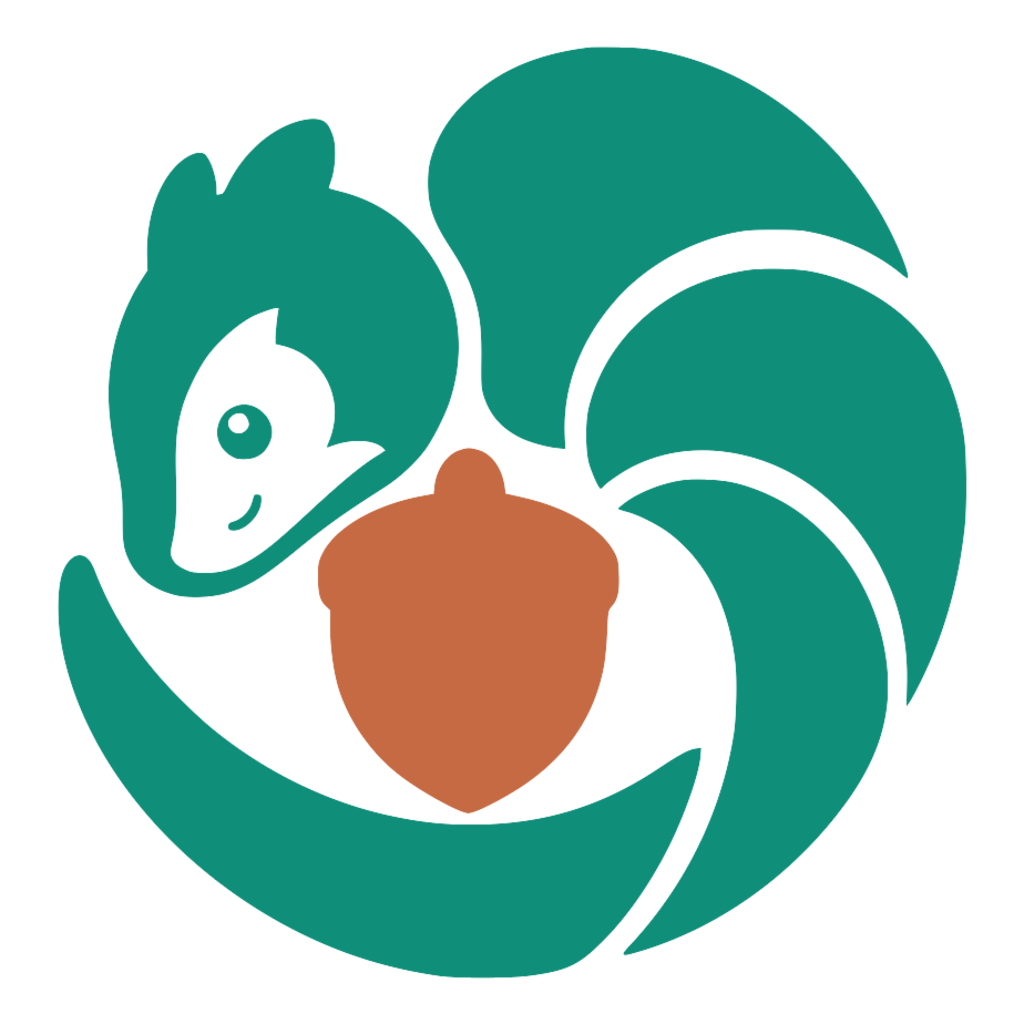
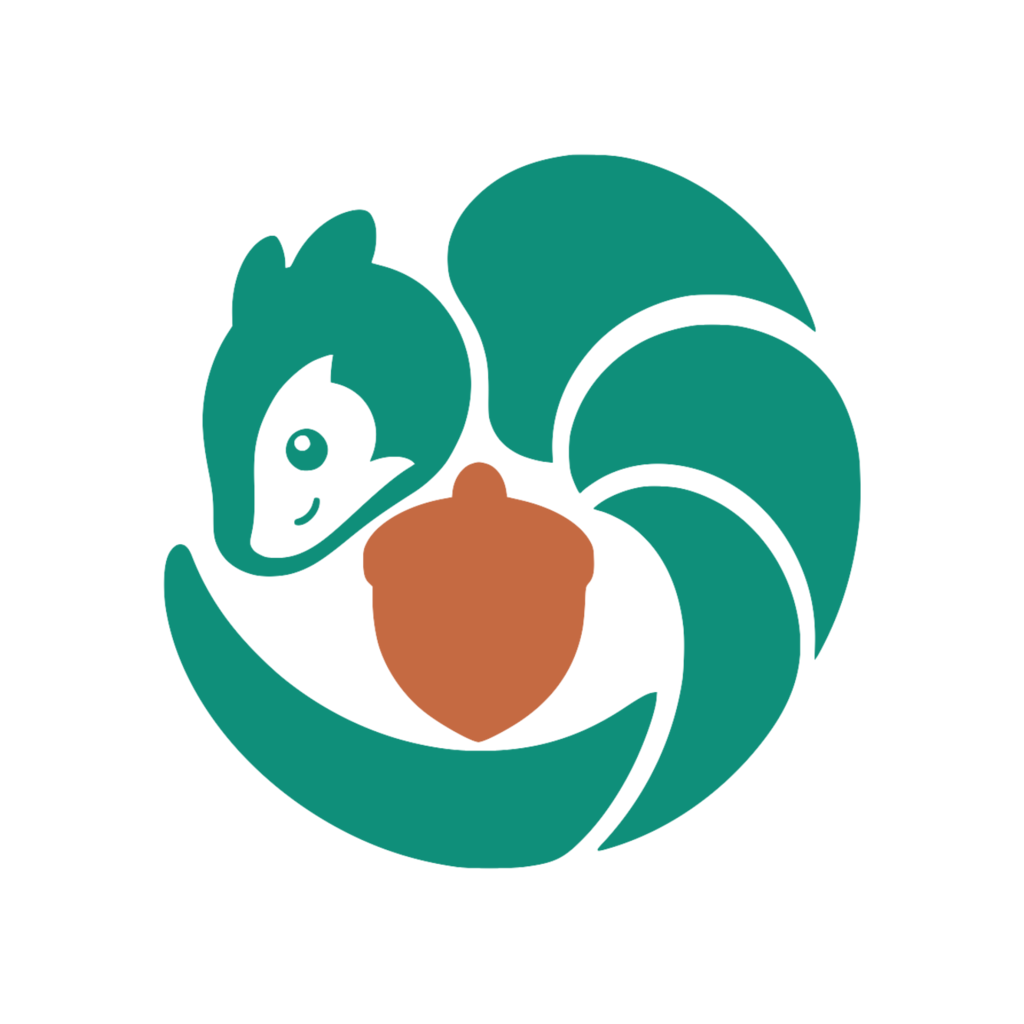
fix(mobile): Android 键盘遮挡修复 + 应用/通知图标优化 (v0.7.9)
- 键盘: 移除三个带输入 sheet(别名与分组/管理分组/设备策略)的
  androidKeyboardInputMode=adjustResize,回落 gorhom 默认 adjustPan,修复
  Android edge-to-edge 下底部输入被软键盘遮挡(iOS 不受影响,gorhom 已是最新无法靠升级修)
- 应用图标: adaptive-icon 前景 logo 缩到 70%,纠正铺满导致的 launcher 显大
- 通知图标: 新增 with-android-notification-icon plugin 注入单色橡子状态栏小图标
  + 展开通知彩色 logo 大图标(circularLargeIcon),修复此前回退到彩色 launcher
  图标被系统渲染成深色块

diff --git a/mobile/plugins/with-android-notification-icon.js b/mobile/plugins/with-android-notification-icon.js
@@ -1,0 +1,40 @@
+const { withDangerousMod } = require("@expo/config-plugins");
+const fs = require("node:fs");
+const path = require("node:path");
+
+// notify-kit(notifee)的通知小图标 = Android 状态栏 24dp 单色剪影。系统只用 alpha
+// 通道渲染(纯白+透明),彩色 launcher 图标当小图标会被渲染成深色块。资源名
+// ic_notification 对应代码里 notifee `android.smallIcon` 的引用。
+//
+// android/ 是 gitignore 的 prebuild 产物(CI 每次 expo prebuild 重生成),故这里用
+// config plugin 在 prebuild 时把 assets/android-notification-icon/drawable-*/
+// ic_notification.png 复制进各 density 的 res/drawable-*,而不是手改原生目录。
+const DENSITIES = ["mdpi", "hdpi", "xhdpi", "xxhdpi", "xxxhdpi"];
+const ICON = "ic_notification.png";
+
+const withAndroidNotificationIcon = (config) =>
+	withDangerousMod(config, [
+		"android",
+		(config) => {
+			const { projectRoot, platformProjectRoot } = config.modRequest;
+			const srcRoot = path.join(
+				projectRoot,
+				"assets/android-notification-icon",
+			);
+			const resRoot = path.join(platformProjectRoot, "app/src/main/res");
+			for (const density of DENSITIES) {
+				const src = path.join(srcRoot, `drawable-${density}`, ICON);
+				if (!fs.existsSync(src)) {
+					throw new Error(
+						`[with-android-notification-icon] 缺少资源: ${src}`,
+					);
+				}
+				const dstDir = path.join(resRoot, `drawable-${density}`);
+				fs.mkdirSync(dstDir, { recursive: true });
+				fs.copyFileSync(src, path.join(dstDir, ICON));
+			}
+			return config;
+		},
+	]);
+
+module.exports = withAndroidNotificationIcon;

diff --git a/mobile/src/components/ui/app-bottom-sheet.tsx b/mobile/src/components/ui/app-bottom-sheet.tsx
@@ -49,7 +49,18 @@ interface AppBottomSheetProps {
   /** 内容容器 testID(迁移时保留原 sheet 的 testID,如 device-policy-sheet)。 */
   contentTestID?: string;
   footerComponent?: React.FC<BottomSheetFooterProps>;
-  /** 带输入框的 sheet 传键盘行为;默认不设(短内容无需)。 */
+  /**
+   * 带输入框的 sheet 传键盘行为;默认不设(短内容无需)。
+   * `keyboardBehavior="interactive"` + `keyboardBlurBehavior="restore"` 是带底部输入
+   * sheet 的推荐基线。
+   *
+   * ⚠️ `androidKeyboardInputMode` 勿设 `"adjustResize"`。gorhom 在
+   * `android + adjustResize + interactive` 下会把键盘容器高度强制归零并直接 return
+   * (BottomSheet.tsx),把 sheet 上移完全交给系统 window resize;而本 App 是
+   * Expo(SDK 56)edge-to-edge,`adjustResize` 只把键盘作为 inset、不会 resize sheet 容器,
+   * 于是 sheet 纹丝不动、底部输入被键盘盖住。留空即用 gorhom 默认 `adjustPan`,
+   * 走库内主动上移逻辑,edge-to-edge 下才正确避让。
+   */
   keyboardBehavior?: BottomSheetModalProps["keyboardBehavior"];
   keyboardBlurBehavior?: BottomSheetModalProps["keyboardBlurBehavior"];
   androidKeyboardInputMode?: BottomSheetModalProps["android_keyboardInputMode"];

diff --git a/mobile/src/core/notifier.ts b/mobile/src/core/notifier.ts
@@ -82,6 +82,12 @@ async function notifyTransferOffer(
     data: { kind: "transfer-offer", sessionId },
     android: {
       channelId: ALERT_CHANNEL_ID,
+      // 状态栏单色小图标(见 foreground-service.ts 说明);color 染品牌绿。
+      smallIcon: "ic_notification",
+      color: "#0F8F7A",
+      // 展开通知右侧的彩色品牌 logo(圆形裁切)。
+      largeIcon: require("../../assets/images/icon.png"),
+      circularLargeIcon: true,
       pressAction: { id: "default" },
     },
   });
@@ -108,6 +114,12 @@ async function notifyPairingRequest(
     data: { kind: "pairing-request", pendingId: pendingId.toString(), peerId },
     android: {
       channelId: ALERT_CHANNEL_ID,
+      // 状态栏单色小图标(见 foreground-service.ts 说明);color 染品牌绿。
+      smallIcon: "ic_notification",
+      color: "#0F8F7A",
+      // 展开通知右侧的彩色品牌 logo(圆形裁切)。
+      largeIcon: require("../../assets/images/icon.png"),
+      circularLargeIcon: true,
       pressAction: { id: "default" },
     },
   });

diff --git a/mobile/src/core/foreground-service.ts b/mobile/src/core/foreground-service.ts
@@ -35,6 +35,14 @@ const FGS_TYPE =
 /** idle 保活与传输进度两条通知共享的 Android 前台服务字段。 */
 const FGS_ANDROID_BASE = {
   channelId: KEEPALIVE_CHANNEL_ID,
+  // 状态栏单色小图标(白色橡子剪影,由 with-android-notification-icon plugin 注入
+  // res/drawable-*/ic_notification.png)。不设则 notify-kit 回退到彩色 launcher 图标
+  // → 被系统渲染成深色块。color 给图标染品牌绿。
+  smallIcon: "ic_notification",
+  color: "#0F8F7A",
+  // 展开通知右侧的大图标 = 彩色品牌 logo(圆形裁切,与 launcher 图标一致)。
+  largeIcon: require("../../assets/images/icon.png"),
+  circularLargeIcon: true,
   asForegroundService: true,
   foregroundServiceTypes: [FGS_TYPE],
   ongoing: true,

diff --git a/mobile/src/components/device-organization-sheets.tsx b/mobile/src/components/device-organization-sheets.tsx
@@ -138,7 +138,6 @@ export const DeviceOrganizeSheet = forwardRef<DeviceOrganizeSheetRef, object>(
         contentTestID="device-organize-sheet"
         keyboardBehavior="interactive"
         keyboardBlurBehavior="restore"
-        androidKeyboardInputMode="adjustResize"
       >
         <View className="gap-5 px-5 pt-2 pb-6">
           <View className="items-center gap-2">
@@ -331,7 +330,6 @@ export const DeviceGroupsManageSheet = forwardRef<
         contentTestID="device-groups-manage-sheet"
         keyboardBehavior="interactive"
         keyboardBlurBehavior="restore"
-        androidKeyboardInputMode="adjustResize"
       >
         <View className="gap-4 px-5 pt-2 pb-6">
           <View className="items-center gap-1">

diff --git a/mobile/src/app/device/[peerId].tsx b/mobile/src/app/device/[peerId].tsx
@@ -447,7 +447,6 @@ export default function DeviceDetailScreen() {
         footerComponent={renderPolicyFooter}
         keyboardBehavior="interactive"
         keyboardBlurBehavior="restore"
-        androidKeyboardInputMode="adjustResize"
       >
         <PolicyEditor
           deviceName={displayName}